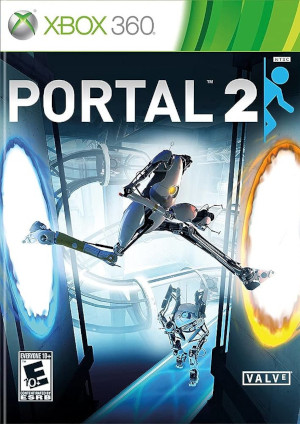
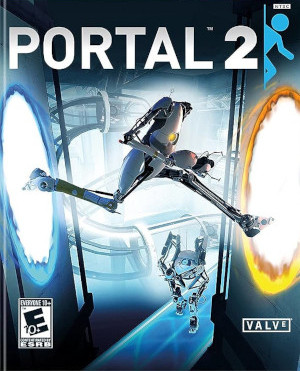
Atualizei o desafio 13

diff --git a/desafios/ds013/index.html b/desafios/ds013/index.html
@@ -29,7 +29,7 @@
                 Na campanha para um jogador, os jogadores controlam Chell, que explora um abandonado Centro de Enriquecimento da Aperture Science durante sua reconstrução pelo supercomputador GLaDOS (Ellen McLain); novos personagens incluem o robô Wheatley (Stephen Merchant) e o fundador da Aperture Cave Johnson (J. K. Simmons). No novo modo cooperativo, os jogadores resolvem quebra-cabeças controlando os robôs Atlas e P-Body (ambos dublados por Dee Bradley Baker). Jonathan Coulton em conjunto com a banda The National produziram músicas para o jogo.
             </p>
             <picture class="imagem">
-                <source media="(max-width: 420px)" srcset="media/imagem/portal_2-p.jpg">
+                <source media="(max-width: 620px)" srcset="media/imagem/portal_2-p.jpg">
                 <img src="media/imagem/portal_2-g.jpg" alt="Portal 2">
             </picture>
             <div class="video">
@@ -55,6 +55,10 @@
             <p>
                 Halo: Reach arrecadou US$200 milhões em seu dia de lançamento, estabelecendo um novo recorde para a série. O jogo vendeu bem na maior parte dos territórios, vendendo mais de três milhões de unidades em seu primeiro mês na América do Norte. Os críticos em geral elogiaram os gráficos e os sons do jogo, o enredo foi considerado mais simples que seus antecessores, ficando mais acessível que os outros jogos da franquia, devido aos acontecimentos do jogo . Reach foi o último jogo da série Halo desenvolvido pela Bungie; atualmente, os jogos estão a cargo da 343 Industries, subsidiária da Microsoft.
             </p>
+            <picture class="imagem">
+                <source media="(max-width: 620px)" srcset="">
+                <img src="media/imagem/halo-reach-p.jpg" alt="Halo Reach">
+            </picture>
             <h1>Mortal Kombat 9</h1>
             <p>
                 Mortal Kombat (também conhecido como Mortal Kombat 9) é um jogo eletrônico de luta de 2011 desenvolvido pela NetherRealm Studios e publicado pela Warner Bros. Interactive Entertainment. É o nono título principal da série de luta Mortal Kombat e um soft reboot da franquia. Foi anunciado oficialmente em 10 de junho de 2010, acompanhado de um trailer de estreia apresentando as novas características da jogabilidade. O jogo foi lançado para PlayStation 3 e Xbox 360 em abril de 2011, e uma versão para PlayStation Vita foi lançada em maio de 2012. Uma versão expandida do jogo, intitulada Mortal Kombat: Komplete Edition, foi lançada para Xbox 360 e PlayStation 3 em fevereiro de 2012 e para Microsoft Windows em julho de 2013.
